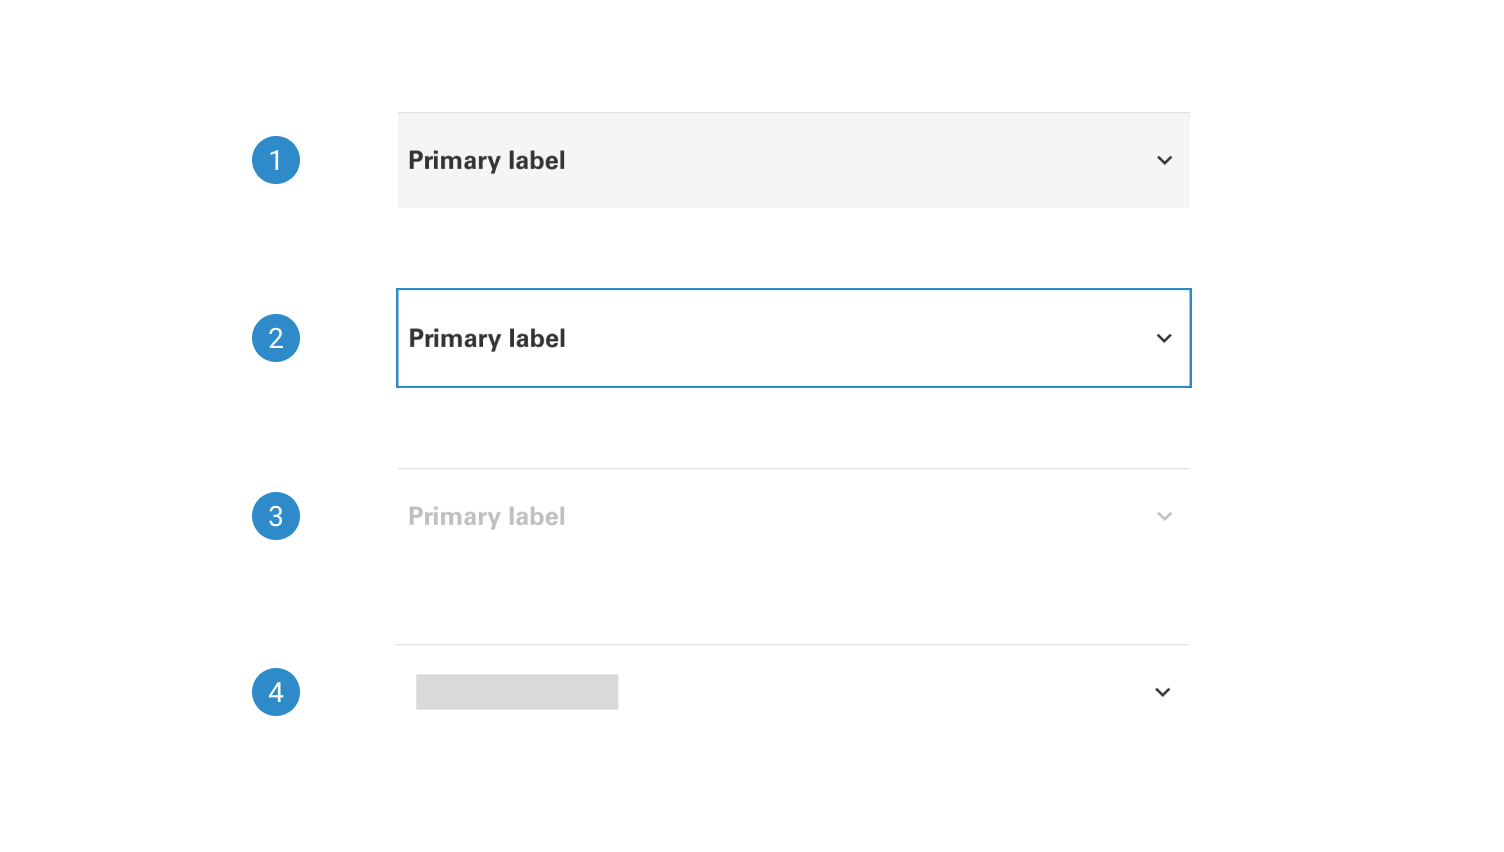
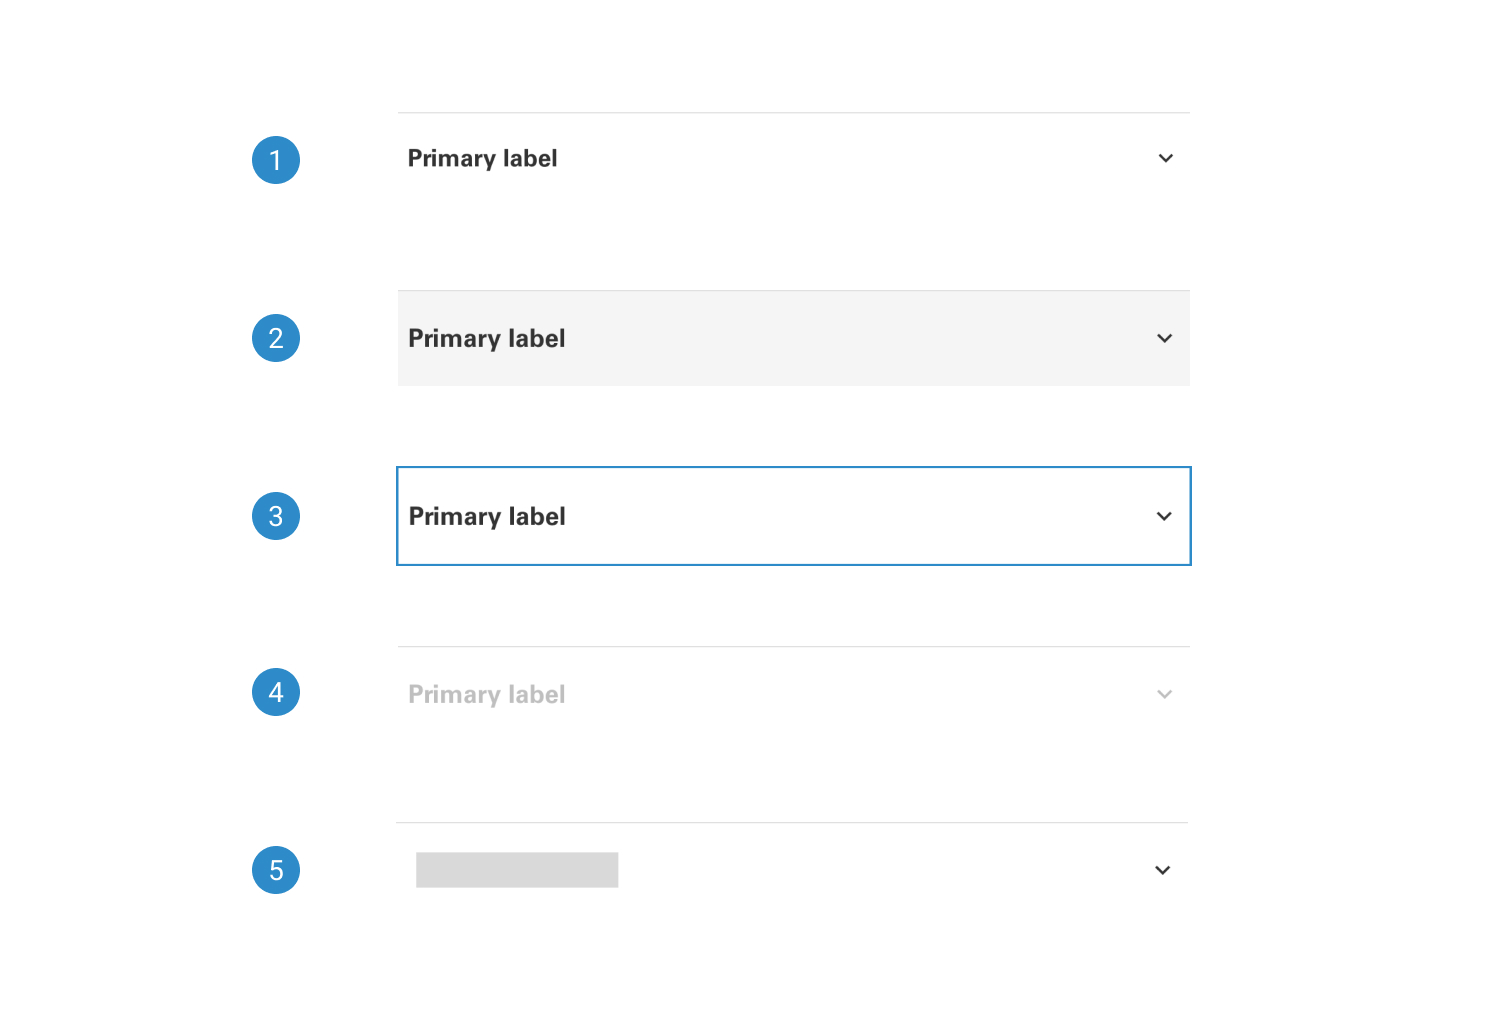
breadcrumb&accordion updates

diff --git a/docs/design-files/breadcrumb.md b/docs/design-files/breadcrumb.md
@@ -5,7 +5,7 @@ A breadcrumb design component on a product page in the design system serves as a
 
 ## Variants
 
-<img src="/assets/images/foundations/color-primary.jpg" alt="Placeholder" style="max-width: 100%;" width="800">
+<img src="../../assets/images/components/breadcrumb-variants.jpg" alt="breadcrumb-variants" width="752"/>
 
 1. <b>Arrow:</b> This style incorporates right-facing arrow icons as separators between links, creating a visual progression and aiding navigation through the site's hierarchy.
 2. <b>Slash:</b> This style uses forward slashes (/) as separators between links, simplifying the representation of hierarchy and enhancing user navigation through the product page.
@@ -15,7 +15,7 @@ A breadcrumb design component on a product page in the design system serves as a
 
 ## Anatomy
 
-<img src="/assets/images/foundations/color-primary.jpg" alt="Placeholder" style="max-width: 100%;" width="800">
+<img src="../../assets/images/components/breadcrumb-states.jpg" alt="breadcrumb-states" width="752"/>
 
 The anatomy of a breadcrumb design component in a design system for a product page can be broken down into the following key elements:
 

diff --git a/docs/design-files/accordion.md b/docs/design-files/accordion.md
@@ -13,10 +13,11 @@ An accordion is a vertically stacked list of headers that reveals or hides assoc
 
 <img src="../../assets/images/components/accordion-states.jpg" alt="accordion-states" width="752"/>
 
-1. <b>Default:</b>
-2. <b>Hover:</b> 
-3. <b>Focus:</b> 
-4. <b>Disabled:</b> 
+1. <b>Default:</b> The standard appearance of the accordion item in its initial state.
+2. <b>Hover:</b> The visual representation of the accordion item when a user hovers their cursor over it, providing interactive feedback.
+3. <b>Focus:</b> The accordion item's appearance when it is in focus, typically used for keyboard navigation, highlighting the selected element.
+4. <b>Disabled:</b> The visually subdued state of the accordion item when it is inactive or not interactive.
+5. <b>Skeleton:</b> A simplified and stylized representation of the accordion item, often used as a placeholder to indicate loading or to enhance the user experience during content retrieval.
 
 ## Anatomy
 
